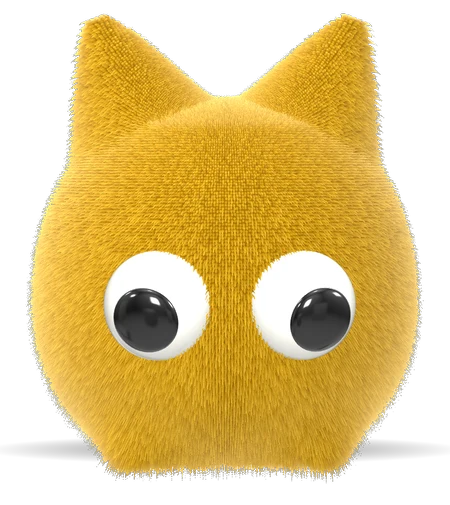
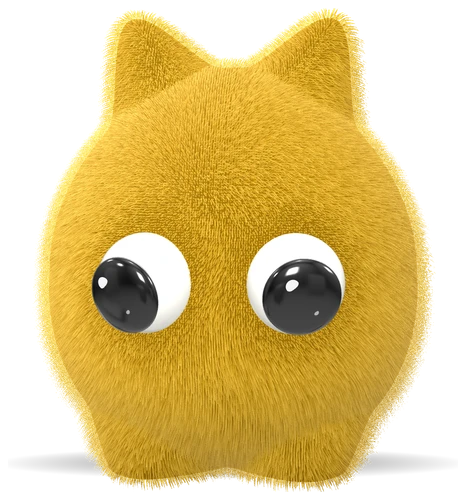
Motchi, redrawn on his character sheet
A plush pear with small rounded ears set close on the crown and two
stubby feet; a denser, brushed coat in the sheet's yellows whose
strands lean and thin toward their tips, trimmed around the eyes; big
glossy lenses with two points of light. The fur's soft edges no longer
leave his body see-through. His still image is taken from the new
scene.

diff --git a/src/components/motchi/scene.ts b/src/components/motchi/scene.ts
@@ -17,51 +17,61 @@ export type MotchiScene = {
   dispose: () => void;
 };
 
-// The character sheet's yellows, a little deeper at the roots so the fur has depth.
-const COLORS = { root: "#c98e08", mid: "#f2b41a", tip: "#ffd23f", sheen: "#fff1b8", eyeWhite: "#f2f2ea", eyeBlack: "#111111" };
-const SHELLS = 40;
-const FUR = 0.075;
-const EYE_R = 0.27;
+// The character sheet's palette: primary yellow at the tips, its shadow yellows toward the roots.
+const COLORS = { root: "#bd8a0c", mid: "#eab220", tip: "#fbd04e", sheen: "#fff0b8", eyeWhite: "#f2f2ea", eyeBlack: "#0c0c0d" };
+const SHELLS = 52;
+const FUR = 0.1;
+const EYE_R = 0.25;
+// Where he stands: the soles of his feet.
+const GROUND = -1.06;
 
-const EARS = [-1, 1].map((side) => ({ side, dir: new THREE.Vector3(side * 0.5, 0.86, 0.1).normalize() }));
-const FEET = [-1, 1].map((side) => new THREE.Vector3(side * 0.42, -0.8, 0.46).normalize());
-const EYES = [-1, 1].map((side) => new THREE.Vector3(side * 0.36, -0.08, 0.93).normalize());
+// Small rounded ears set close on the crown, two stubby feet under the front, eyes at mid height.
+const EARS = [-1, 1].map((side) => ({ side, dir: new THREE.Vector3(side * 0.43, 0.9, 0.04).normalize() }));
+const FEET = [-1, 1].map((side) => new THREE.Vector3(side * 0.4, -0.86, 0.32).normalize());
+const EYES = [-1, 1].map((side) => new THREE.Vector3(side * 0.38, 0.0, 0.925).normalize());
 
 const angle = (a: THREE.Vector3, b: THREE.Vector3) => Math.acos(Math.min(1, Math.max(-1, a.dot(b))));
+// A bump that is round on top and melts into the body at its edge.
+const bump = (d: number, radius: number, power: number) => (d >= radius ? 0 : Math.cos((d / radius) * (Math.PI / 2)) ** power);
 
-// The body's surface in a direction: an egg, wider low down, with the ears and the feet pulled out
-// of it and a flat bottom to sit on. Also says how much of an ear the point is, for the twitch.
+// The body's surface in a direction: a plush pear, widest below the middle with a narrower
+// dome, the ears and the feet pulled out of it. Also says how much of an ear the point is, for
+// the twitch.
 function surface(dir: THREE.Vector3, out: THREE.Vector3) {
-  const wide = 1 + 0.12 * Math.max(0, -dir.y) - 0.05 * Math.max(0, dir.y);
-  out.set(dir.x * wide, dir.y * 1.08, dir.z * 0.88 * wide);
-  // A rounded crown between the ears, not a peak.
-  if (out.y > 0.78) out.y = 0.78 + (out.y - 0.78) * 0.55;
+  const up = Math.max(0, dir.y);
+  const down = Math.max(0, -dir.y);
+  const wide = 1 + 0.1 * down - 0.13 * up * up;
+  out.set(dir.x * wide, dir.y * 1.1, dir.z * 0.92 * wide);
   let ear = 0;
   let side = 0;
   for (const e of EARS) {
-    const d = angle(dir, e.dir);
-    if (d >= 0.46) continue;
-    const k = (1 - d / 0.46) ** 1.45;
-    out.x += dir.x * k * 0.46;
-    out.y += dir.y * k * 0.66;
-    out.z += dir.z * k * 0.16;
+    const k = bump(angle(dir, e.dir), 0.37, 1.7);
+    if (!k) continue;
+    out.addScaledVector(e.dir, k * 0.4);
     if (k > ear) [ear, side] = [k, e.side];
   }
   for (const f of FEET) {
-    const d = angle(dir, f);
-    if (d < 0.4) out.addScaledVector(f, (1 - d / 0.4) ** 2 * 0.2);
+    const k = bump(angle(dir, f), 0.4, 1.4);
+    if (!k) continue;
+    out.x += f.x * k * 0.07;
+    out.y -= k * 0.24;
+    out.z += k * 0.22;
   }
-  if (out.y < -0.9) out.y = -0.9 + (out.y + 0.9) * 0.25;
+  // Flat soles to stand on.
+  if (out.y < GROUND + 0.04) out.y = GROUND + 0.04 + (out.y - GROUND - 0.04) * 0.15;
   return { ear, side };
 }
 
 // The body, with normals taken from the shape itself, so the sphere's seam never shows in the fur.
 function bodyGeometry() {
-  const g = new THREE.SphereGeometry(1, 72, 56);
+  const g = new THREE.SphereGeometry(1, 120, 88);
   const pos = g.attributes.position;
   const normals = new Float32Array(pos.count * 3);
   const ears = new Float32Array(pos.count);
   const sides = new Float32Array(pos.count);
+  // How long the coat is at each point: short around the eyes, so it frames them instead of
+  // covering them, and under the feet.
+  const trims = new Float32Array(pos.count);
   const v = new THREE.Vector3();
   const p = new THREE.Vector3();
   const a = new THREE.Vector3();
@@ -83,39 +93,53 @@ function bodyGeometry() {
     normals.set([n.x, n.y, n.z], i * 3);
     ears[i] = e.ear;
     sides[i] = e.side;
+    const eye = Math.min(...EYES.map((d) => angle(v, d)));
+    const nearEye = Math.min(1, Math.max(0, (eye - 0.2) / 0.22));
+    const sole = Math.min(1, Math.max(0, (p.y - GROUND) / 0.16));
+    trims[i] = (0.12 + 0.88 * nearEye * nearEye) * (0.35 + 0.65 * sole);
   }
   g.setAttribute("normal", new THREE.BufferAttribute(normals, 3));
   g.setAttribute("ear", new THREE.BufferAttribute(ears, 1));
   g.setAttribute("side", new THREE.BufferAttribute(sides, 1));
+  g.setAttribute("trim", new THREE.BufferAttribute(trims, 1));
   return g;
 }
 
+// Each shell is the body pushed out along its normals. The strands lean a little, each tuft its
+// own way, and hang slightly under their weight, so the coat looks brushed rather than spiky.
 const FUR_VERTEX = /* glsl */ `
 attribute float ear;
 attribute float side;
+attribute float trim;
 uniform float uShell;
 uniform float uLength;
 uniform float uTwitch;
 uniform vec3 uSag;
-varying vec2 vUv;
+varying vec3 vBase;
+varying vec3 vObjNormal;
 varying vec3 vNormal;
 varying vec3 vView;
 void main() {
   vec3 p = position;
+  vBase = position;
   if (ear > 0.0) {
     float a = uTwitch * side * ear;
-    p.x += sin(a) * max(p.y - 0.55, 0.0) * 1.6;
-    p.y -= (1.0 - cos(a)) * 0.4 * ear;
+    p.x += sin(a) * max(p.y - 0.75, 0.0) * 1.6;
+    p.y -= (1.0 - cos(a)) * 0.3 * ear;
   }
   vec3 n = normalize(normal);
-  p += n * uLength * uShell + uSag * uShell * uShell;
+  vObjNormal = n;
+  vec3 lean = vec3(sin(position.y * 7.0 + position.z * 5.0), -0.35, cos(position.x * 6.0 - position.y * 4.0));
+  lean -= n * dot(lean, n);
+  p += (n * uLength * uShell + (uSag + lean * 0.02) * uShell * uShell) * trim;
   vec4 mv = modelViewMatrix * vec4(p, 1.0);
   vView = -mv.xyz;
   vNormal = normalize(normalMatrix * n);
-  vUv = uv;
   gl_Position = projectionMatrix * mv;
 }`;
 
+// The strands live in small cells of space, not of the sphere's own grid, so they are as dense
+// on the ears and the crown as on the belly. Each one is a column that thins toward its tip.
 const FUR_FRAGMENT = /* glsl */ `
 uniform float uShell;
 uniform vec3 uRoot;
@@ -123,34 +147,44 @@ uniform vec3 uMid;
 uniform vec3 uTip;
 uniform vec3 uSheen;
 uniform vec3 uLight;
-varying vec2 vUv;
+varying vec3 vBase;
+varying vec3 vObjNormal;
 varying vec3 vNormal;
 varying vec3 vView;
-float hash(vec2 p) {
-  p = fract(p * vec2(123.34, 456.21));
-  p += dot(p, p + 45.32);
-  return fract(p.x * p.y);
+float hash(vec3 p) {
+  p = fract(p * vec3(0.1031, 0.1030, 0.0973));
+  p += dot(p, p.yxz + 33.33);
+  return fract((p.x + p.y) * p.z);
 }
 void main() {
-  vec2 st = vUv * vec2(420.0, 210.0);
-  vec2 cell = floor(st);
-  float h = 0.55 + 0.45 * hash(cell);
+  vec3 q = vBase * 84.0;
+  vec3 cell = floor(q);
+  float h = 0.5 + 0.5 * hash(cell);
+  float alpha = 1.0;
   if (uShell > 0.0) {
     if (uShell > h) discard;
-    vec2 c = fract(st) - 0.5 - (vec2(hash(cell + 3.1), hash(cell + 7.7)) - 0.5) * 0.35;
-    float r = 0.62 * (1.0 - uShell / h);
-    if (dot(c, c) > r * r) discard;
+    vec3 jitter = (vec3(hash(cell + 1.7), hash(cell + 5.3), hash(cell + 9.1)) - 0.5) * 0.5;
+    vec3 d = fract(q) - 0.5 - jitter;
+    vec3 n = normalize(vObjNormal);
+    d -= n * dot(d, n);
+    float r = 0.56 * (1.0 - 0.78 * uShell / h);
+    alpha = 1.0 - smoothstep(r * 0.5, r, length(d));
+    if (alpha < 0.04) discard;
   }
-  vec3 base = mix(uRoot, uMid, smoothstep(0.0, 0.4, uShell));
-  base = mix(base, uTip, smoothstep(0.35, 0.95, uShell));
-  base *= 0.88 + 0.24 * hash(cell + 17.0);
+  vec3 base = mix(uRoot, uMid, smoothstep(0.0, 0.45, uShell));
+  base = mix(base, uTip, smoothstep(0.4, 1.0, uShell));
+  base *= 0.9 + 0.2 * hash(cell + 17.0);
   vec3 N = normalize(vNormal);
   vec3 V = normalize(vView);
-  float diffuse = 0.74 + 0.5 * max(dot(N, uLight), 0.0);
-  float ao = mix(0.62, 1.0, uShell);
-  float rim = pow(1.0 - max(dot(N, V), 0.0), 2.4);
-  vec3 col = base * diffuse * ao + uSheen * rim * (0.25 + 0.75 * uShell);
-  gl_FragColor = vec4(col, 1.0);
+  float ndl = dot(N, uLight);
+  // Soft light that wraps around him, darker deep in the coat and near the floor.
+  float wrap = clamp((ndl + 0.65) / 1.65, 0.0, 1.0);
+  float floorShade = mix(0.7, 1.0, smoothstep(-1.1, -0.25, vBase.y));
+  float depth = mix(0.66, 1.0, uShell);
+  float rim = pow(1.0 - max(dot(N, V), 0.0), 2.2);
+  vec3 col = base * (0.54 + 0.72 * wrap) * depth * floorShade;
+  col += uSheen * (rim * 0.34 + pow(max(ndl, 0.0), 5.0) * 0.1) * uShell;
+  gl_FragColor = vec4(col, alpha);
   #include <colorspace_fragment>
 }`;
 
@@ -206,27 +240,57 @@ export function createMotchi(canvas: HTMLCanvasElement, { reducedMotion = false 
   };
   const shellMaterials: THREE.ShaderMaterial[] = [];
   for (let i = 0; i < SHELLS; i++) {
-    const material = new THREE.ShaderMaterial({ vertexShader: FUR_VERTEX, fragmentShader: FUR_FRAGMENT, uniforms: { ...shared, uShell: { value: i / (SHELLS - 1) } } });
+    // The strands' soft edges are resolved by the antialiasing samples (alpha to coverage).
+    const material = new THREE.ShaderMaterial({ vertexShader: FUR_VERTEX, fragmentShader: FUR_FRAGMENT, alphaToCoverage: i > 0, uniforms: { ...shared, uShell: { value: i / (SHELLS - 1) } } });
     shellMaterials.push(material);
     const shell = new THREE.Mesh(body, material);
     shell.renderOrder = i;
     rig.add(shell);
   }
 
+  // The strands' soft edges leave the picture a little see-through where they overlap the body.
+  // One last pass over the body's own outline makes it solid again (it writes no colour), so
+  // only the fringe of the coat stays soft against whatever is behind him.
+  const solid = new THREE.Mesh(
+    body,
+    new THREE.MeshBasicMaterial({
+      depthTest: false,
+      depthWrite: false,
+      transparent: true,
+      blending: THREE.CustomBlending,
+      blendSrc: THREE.ZeroFactor,
+      blendDst: THREE.OneFactor,
+      blendSrcAlpha: THREE.OneFactor,
+      blendDstAlpha: THREE.ZeroFactor,
+    }),
+  );
+  solid.renderOrder = SHELLS + 10;
+  rig.add(solid);
+
   // Googly eyes: a glossy white bowl each, a big black lens free to roll inside it.
-  const whiteMaterial = new THREE.MeshPhysicalMaterial({ color: COLORS.eyeWhite, roughness: 0.22, clearcoat: 1, clearcoatRoughness: 0.04 });
+  const whiteMaterial = new THREE.MeshPhysicalMaterial({ color: COLORS.eyeWhite, roughness: 0.3, clearcoat: 0.8, clearcoatRoughness: 0.08 });
   const blackMaterial = new THREE.MeshPhysicalMaterial({ color: COLORS.eyeBlack, roughness: 0.12, clearcoat: 1, clearcoatRoughness: 0.03, metalness: 0.1 });
   const eyeGeometry = new THREE.SphereGeometry(1, 40, 28);
   const p = new THREE.Vector3();
+  const glints: THREE.Mesh[] = [];
   const eyes = EYES.map((dir, i) => {
     surface(dir, p);
     const eye = new THREE.Group();
-    eye.position.copy(p).multiplyScalar(0.97);
+    // Set into the coat, so the fur closes around each eye.
+    eye.position.copy(p).multiplyScalar(0.972);
     eye.lookAt(eye.position.clone().add(dir));
     const white = new THREE.Mesh(eyeGeometry, whiteMaterial);
-    white.scale.set(EYE_R, EYE_R, EYE_R * 0.86);
+    white.scale.set(EYE_R, EYE_R, EYE_R * 0.9);
+    // A big glossy lens, as on the sheet, with two points of light on it.
     const pupil = new THREE.Mesh(eyeGeometry, blackMaterial);
-    pupil.scale.set(EYE_R * 0.6, EYE_R * 0.6, EYE_R * 0.26);
+    pupil.scale.set(EYE_R * 0.78, EYE_R * 0.78, EYE_R * 0.3);
+    for (const [x, y, size, opacity] of [[-0.34, 0.4, 0.17, 0.95], [0.3, -0.28, 0.07, 0.6]] as const) {
+      const glint = new THREE.Mesh(eyeGeometry, new THREE.MeshBasicMaterial({ color: 0xffffff, transparent: true, opacity }));
+      glint.position.set(x, y, Math.sqrt(1 - x * x - y * y) * 0.98);
+      glint.scale.set(size, size, size * 0.4);
+      glints.push(glint);
+      pupil.add(glint);
+    }
     eye.add(white, pupil);
     rig.add(eye);
     return { pupil, at: new THREE.Vector2(), speed: new THREE.Vector2(), stiffness: i ? 70 : 82 };
@@ -235,7 +299,7 @@ export function createMotchi(canvas: HTMLCanvasElement, { reducedMotion = false 
   const shadowMaterial = new THREE.MeshBasicMaterial({ map: shadowTexture(), transparent: true, depthWrite: false });
   const shadow = new THREE.Mesh(new THREE.PlaneGeometry(2.6, 1.1), shadowMaterial);
   shadow.rotation.x = -Math.PI / 2;
-  shadow.position.y = -0.93;
+  shadow.position.y = GROUND;
   scene.add(shadow);
 
   // ------------------------------------------------------------ behaviour
@@ -317,7 +381,7 @@ export function createMotchi(canvas: HTMLCanvasElement, { reducedMotion = false 
     }
     root.position.y = y;
     rig.scale.set(1 / Math.sqrt(sy), sy, 1 / Math.sqrt(sy));
-    rig.position.y = -0.93 * (1 - sy);
+    rig.position.y = GROUND * (1 - sy);
     shadow.scale.setScalar(1 - y * 0.9);
     shadowMaterial.opacity = 1 - y * 1.6;
 
@@ -339,15 +403,15 @@ export function createMotchi(canvas: HTMLCanvasElement, { reducedMotion = false 
       eye.speed.multiplyScalar(Math.exp(-dt * 7));
       eye.at.addScaledVector(eye.speed, dt);
       const r = eye.at.length();
-      if (r > 0.58) {
-        eye.at.multiplyScalar(0.58 / r);
+      if (r > 0.5) {
+        eye.at.multiplyScalar(0.5 / r);
         eye.speed.multiplyScalar(-0.4);
       }
       const { x, y: v } = eye.at;
       const z = Math.sqrt(Math.max(0, 1 - x * x - v * v));
       forward.set(x, v, z);
-      eye.pupil.position.copy(forward).multiplyScalar(EYE_R * 0.8);
-      eye.pupil.position.z *= 0.86;
+      eye.pupil.position.copy(forward).multiplyScalar(EYE_R * 0.76);
+      eye.pupil.position.z *= 0.9;
       eye.pupil.quaternion.setFromUnitVectors(front, forward);
     }
     renderer.render(scene, camera);
@@ -382,7 +446,7 @@ export function createMotchi(canvas: HTMLCanvasElement, { reducedMotion = false 
       shadow.geometry.dispose();
       shadowMaterial.map?.dispose();
       shadowMaterial.dispose();
-      for (const m of [...shellMaterials, whiteMaterial, blackMaterial]) m.dispose();
+      for (const m of [...shellMaterials, solid.material, whiteMaterial, blackMaterial, ...glints.map((g) => g.material as THREE.Material)]) m.dispose();
       env.dispose();
       pmrem.dispose();
       renderer.dispose();
